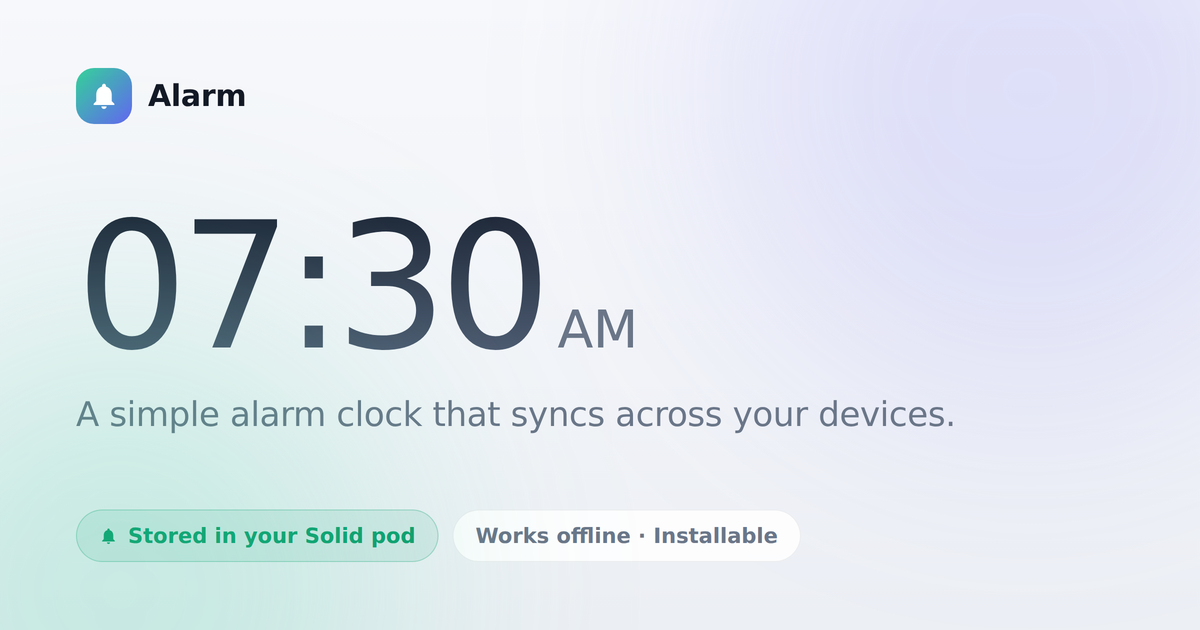
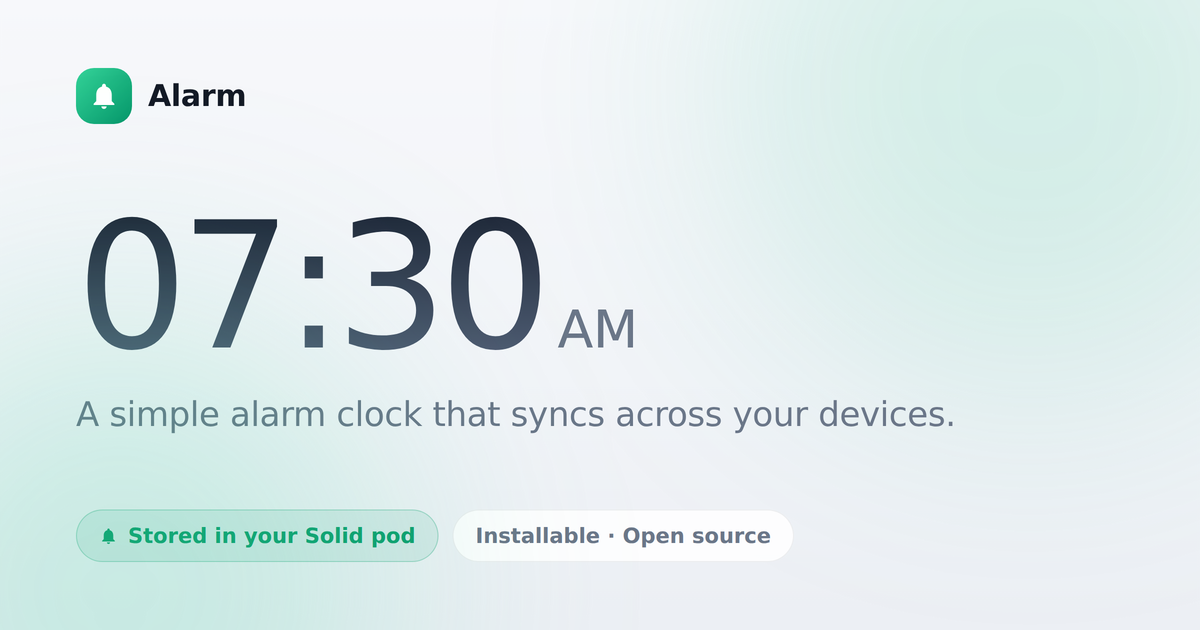
fix: login modal was hidden; regenerate assets in the emerald palette
Login: the critic-pass commit hid #xlogin-widget outright, but xlogin
renders BOTH its floating pill AND its login modal into that one
closed-shadow host — so clicking Login opened an invisible dialog.
The host is now hidden only by default and revealed (body.xl-open)
while the modal is in use; it re-hides on the xlogin event, Escape,
or any click that doesn't retarget to the host (while the modal is
open its overlay covers the viewport, so every click retargets to the
host — a click on anything else proves the modal closed). Verified in
the browser: Login click opens the Nostr/Solid dialog.

Assets: favicon, icon-192/512, maskable icon and og.png regenerated
with the app's emerald palette (#34d399 -> #059669) replacing the old
teal-to-indigo mark. OG card copy no longer claims "Works offline" —
there is no service worker yet; it now says "Installable - Open
source".

Changed region(s): [[0.4008, 0.8143, 0.6475, 0.8746], [0.0617, 0.0905, 0.1233, 0.2111]]

diff --git a/index.html b/index.html
@@ -195,10 +195,13 @@
       .when-mobile { display: none; }
     }
 
-    /* xlogin's floating pill renders in a closed shadow root (unstyleable,
-     * off-palette, off-grid). Hide it; the topbar renders its own auth
-     * button wired to window.xlogin.login()/logout(). */
-    #xlogin-widget { display: none !important; }
+    /* xlogin renders BOTH its floating pill AND its login modal into one
+     * closed-shadow host, so hiding the host outright would hide the modal
+     * too (that bug shipped briefly — Login clicked, nothing appeared).
+     * Instead: hidden by default, shown only while the modal is in use;
+     * the topbar's own auth button drives window.xlogin.login()/logout(). */
+    #xlogin-widget { display: none; }
+    body.xl-open #xlogin-widget { display: block; }
 
     .btn-auth {
       background: transparent;
@@ -1698,6 +1701,20 @@
     });
     document.addEventListener('xlogout', () => onSolidSignOut());
 
+    // Re-hide the xlogin shadow host once its modal is done. While the
+    // modal is open its overlay covers the viewport, so every click
+    // retargets to the host — a click on anything else proves the modal
+    // has closed (cancelled or completed).
+    const hideXlogin = () => document.body.classList.remove('xl-open');
+    document.addEventListener('xlogin', hideXlogin);
+    document.addEventListener('keydown', (e) => { if (e.key === 'Escape') hideXlogin(); });
+    document.addEventListener('click', (e) => {
+      if (!document.body.classList.contains('xl-open')) return;
+      const t = e.target;
+      if (t && (t.id === 'xlogin-widget' || (t.closest && t.closest('.btn-auth')))) return;
+      hideXlogin();
+    }, true);
+
     // xlogin may have already restored a session before this handler
     // attached — pick that up too.
     if (window.xlogin && window.xlogin.type === 'solid' && window.xlogin.id) {
@@ -1755,8 +1772,13 @@
             title=${who ? `Signed in as ${who} — click to sign out` : 'Sign in with Solid'}
             onClick=${() => {
               if (!window.xlogin) return;
-              if (who) window.xlogin.logout && window.xlogin.logout();
-              else window.xlogin.login && window.xlogin.login();
+              if (who) {
+                window.xlogin.logout && window.xlogin.logout();
+              } else {
+                // Reveal the shadow host so the modal is visible, then open it.
+                document.body.classList.add('xl-open');
+                window.xlogin.login && window.xlogin.login();
+              }
             }}
           >${label}</button>
         </div>

diff --git a/og.html b/og.html
@@ -8,7 +8,7 @@
     --text-dim: #6a7688;
     --accent: #0d9e6e;
     --accent-bright: #34d399;
-    --accent-2: #6366f1;
+    --accent-2: #059669;
     --card: rgba(255, 255, 255, 0.85);
     --card-border: rgba(17, 24, 39, 0.07);
     --font: -apple-system, 'Segoe UI', Roboto, 'DejaVu Sans', sans-serif;
@@ -28,7 +28,7 @@
   }
   body::before {
     width: 620px; height: 620px; top: -220px; right: -140px;
-    background: rgba(99, 102, 241, 0.16);
+    background: rgba(16, 185, 129, 0.14);
   }
   body::after {
     width: 560px; height: 560px; bottom: -240px; left: -160px;
@@ -50,7 +50,7 @@
   }
   .brand-dot {
     width: 56px; height: 56px; border-radius: 18px;
-    background: linear-gradient(135deg, var(--accent-bright), var(--accent-2));
+    background: linear-gradient(135deg, var(--accent-bright), #059669);
     display: grid; place-items: center; color: #fff;
   }
   .brand-dot svg { width: 31px; height: 31px; }
@@ -103,7 +103,7 @@
         <svg viewBox="0 0 24 24" fill="currentColor"><path d="M12 22c1.1 0 2-.9 2-2h-4c0 1.1.9 2 2 2zm6-6v-5c0-3.07-1.63-5.64-4.5-6.32V4c0-.83-.67-1.5-1.5-1.5S10.5 3.17 10.5 4v.68C7.63 5.36 6 7.92 6 11v5l-2 2v1h16v-1l-2-2z"/></svg>
         Stored in your Solid pod
       </span>
-      <span class="chip plain">Works offline · Installable</span>
+      <span class="chip plain">Installable · Open source</span>
     </div>
   </div>
 </body>

diff --git a/icon-maskable.html b/icon-maskable.html
@@ -4,7 +4,7 @@
   /* Full bleed, no rounding: the platform supplies the mask. Glyph stays
      inside the 80% safe-zone circle so no crop can clip it. */
   .tile{width:512px;height:512px;
-    background:linear-gradient(135deg,#34d399,#6366f1);
+    background:linear-gradient(135deg,#34d399,#059669);
     display:grid;place-items:center}
   svg{width:205px;height:205px;fill:#fff}
 </style></head><body>

diff --git a/icon.html b/icon.html
@@ -2,7 +2,7 @@
   *{margin:0;padding:0;box-sizing:border-box}
   html,body{width:512px;height:512px;background:transparent}
   .tile{width:512px;height:512px;border-radius:115px;
-    background:linear-gradient(135deg,#34d399,#6366f1);
+    background:linear-gradient(135deg,#34d399,#059669);
     display:grid;place-items:center}
   svg{width:276px;height:276px;fill:#fff}
 </style></head><body>
